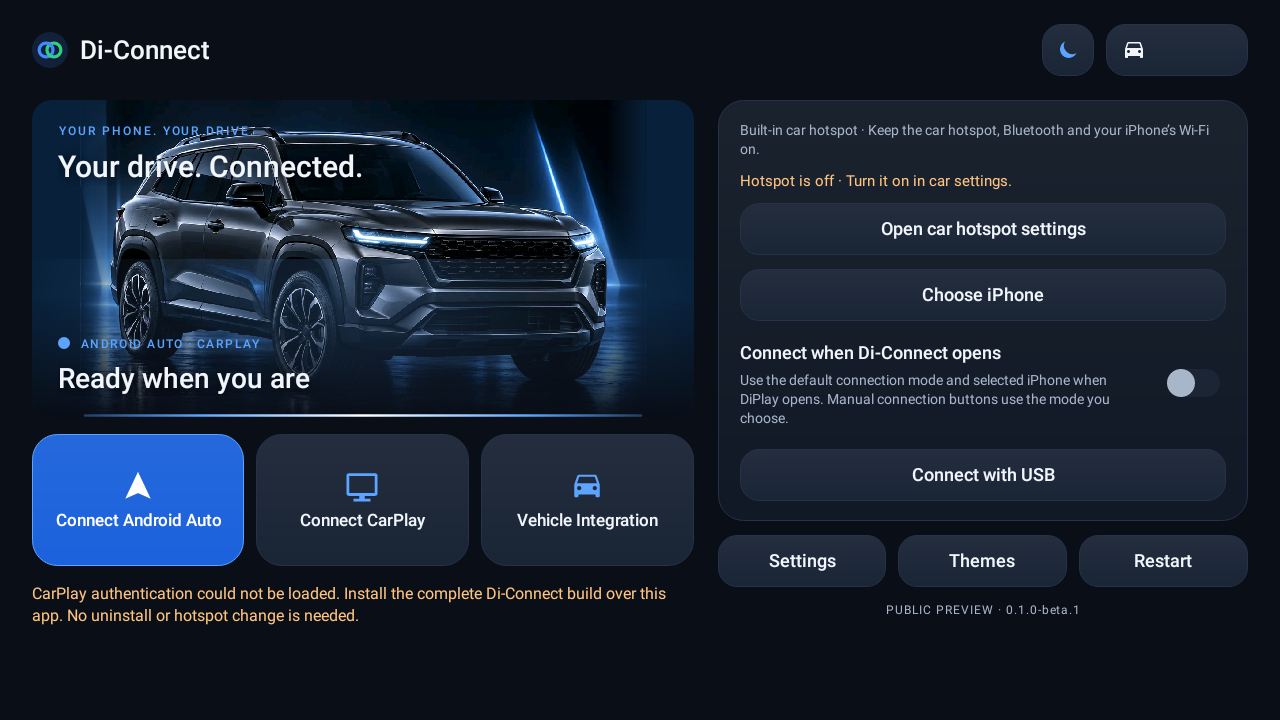
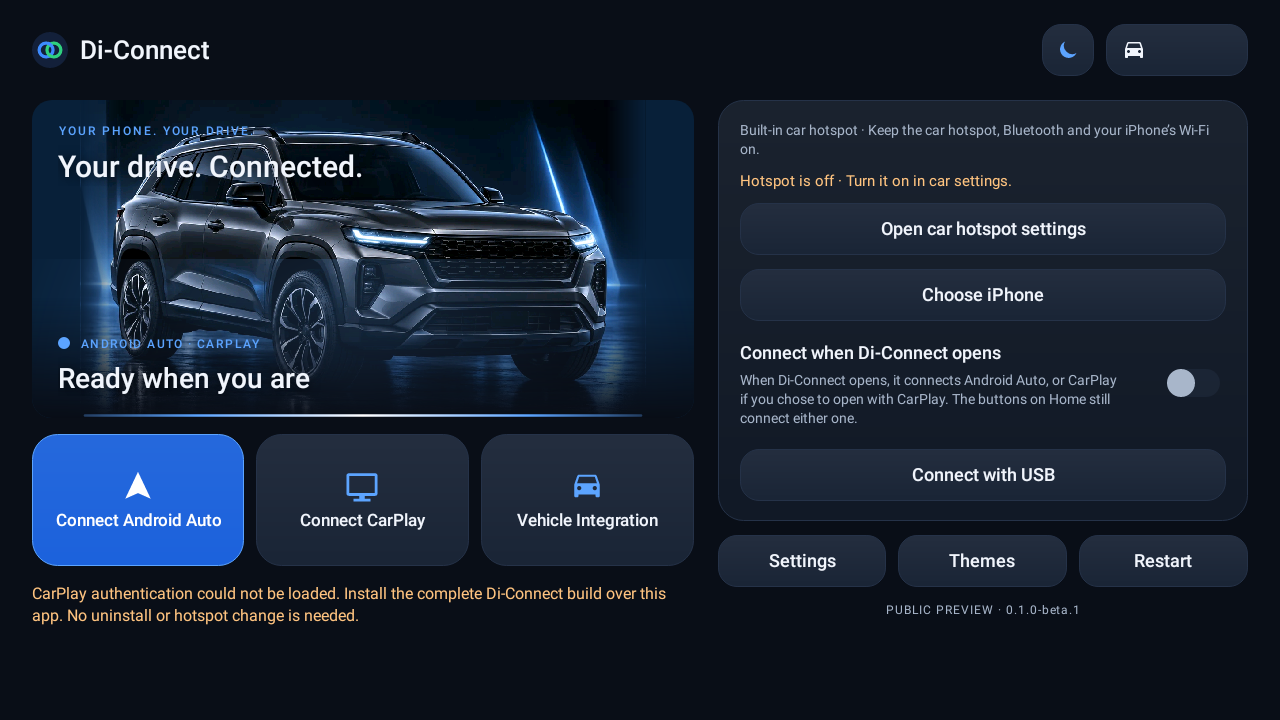
Screen pictures for 3bf6568

Changed region(s): [[0.5625, 0.5194, 0.875, 0.6111]]

diff --git a/README.md b/README.md
@@ -1,1 +1,1 @@
-Screen pictures from a133e51b058a6fef666aa40eea40401e58ecbc21
+Screen pictures from 3bf65680423a933040117eab5f386b809e9a1af0
